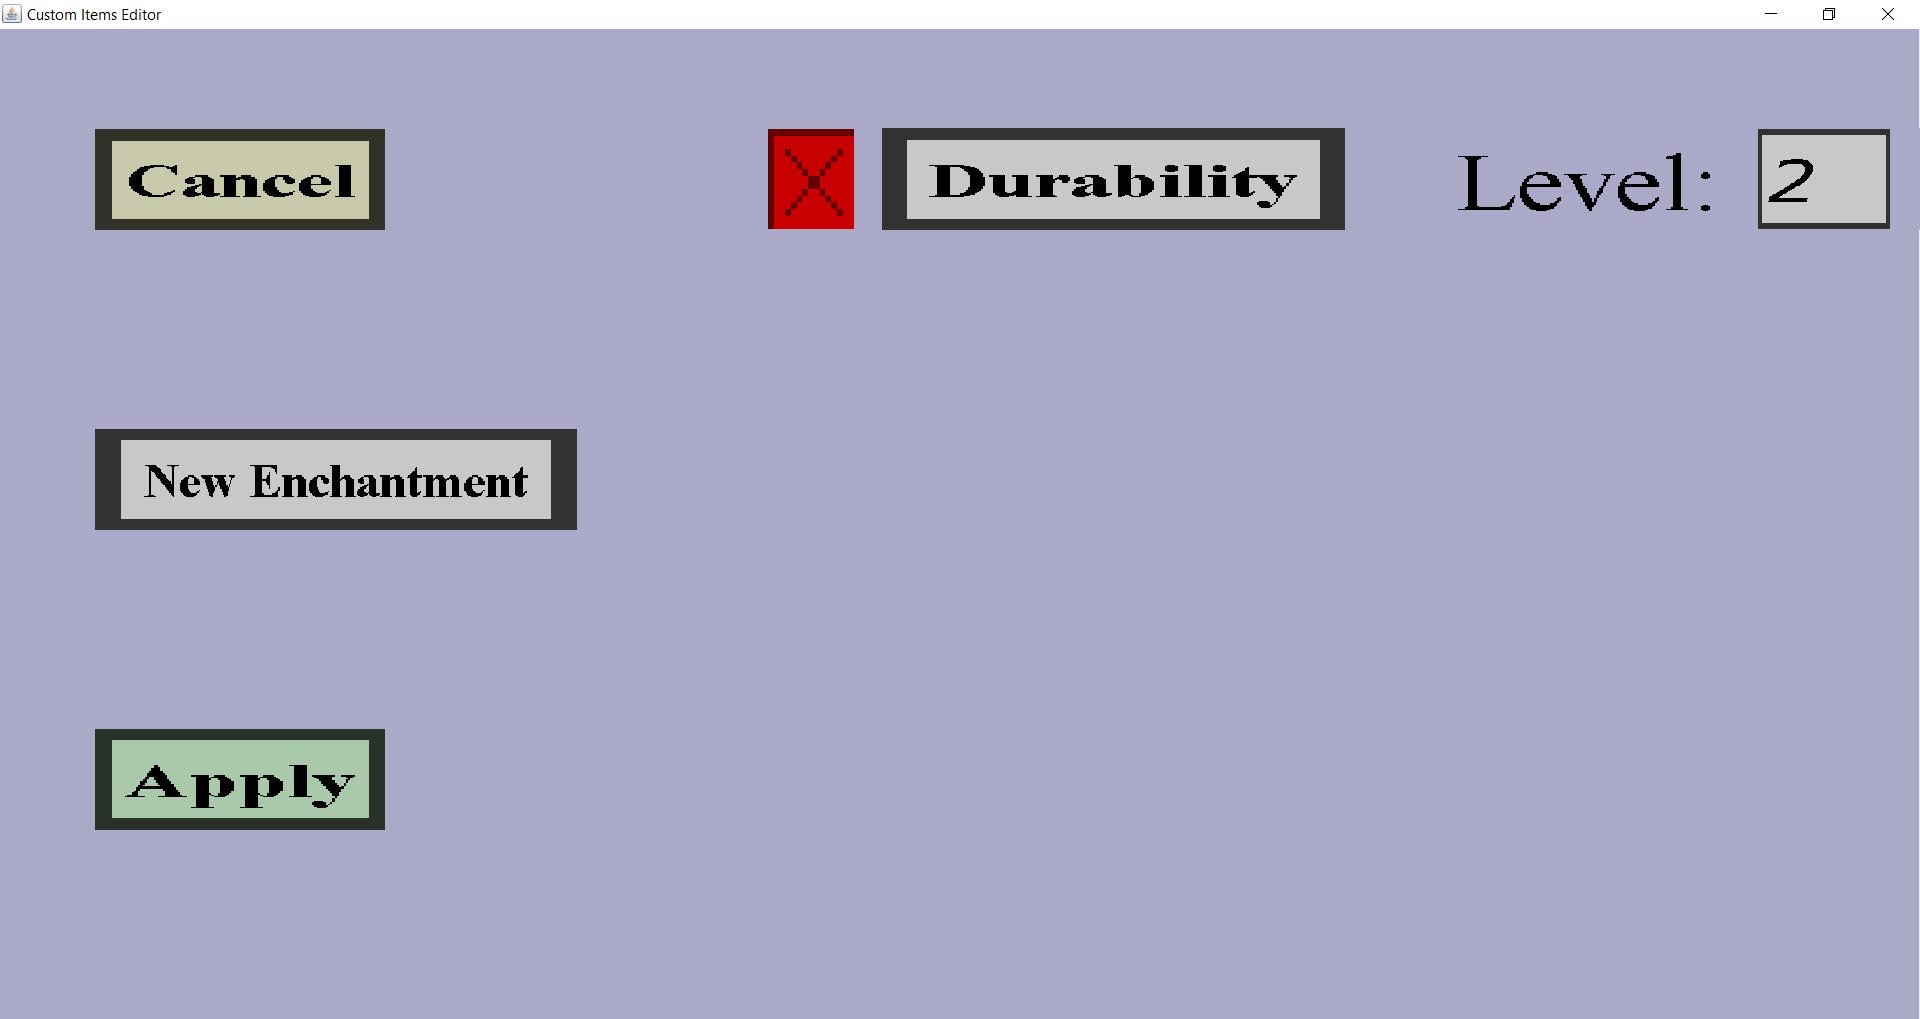
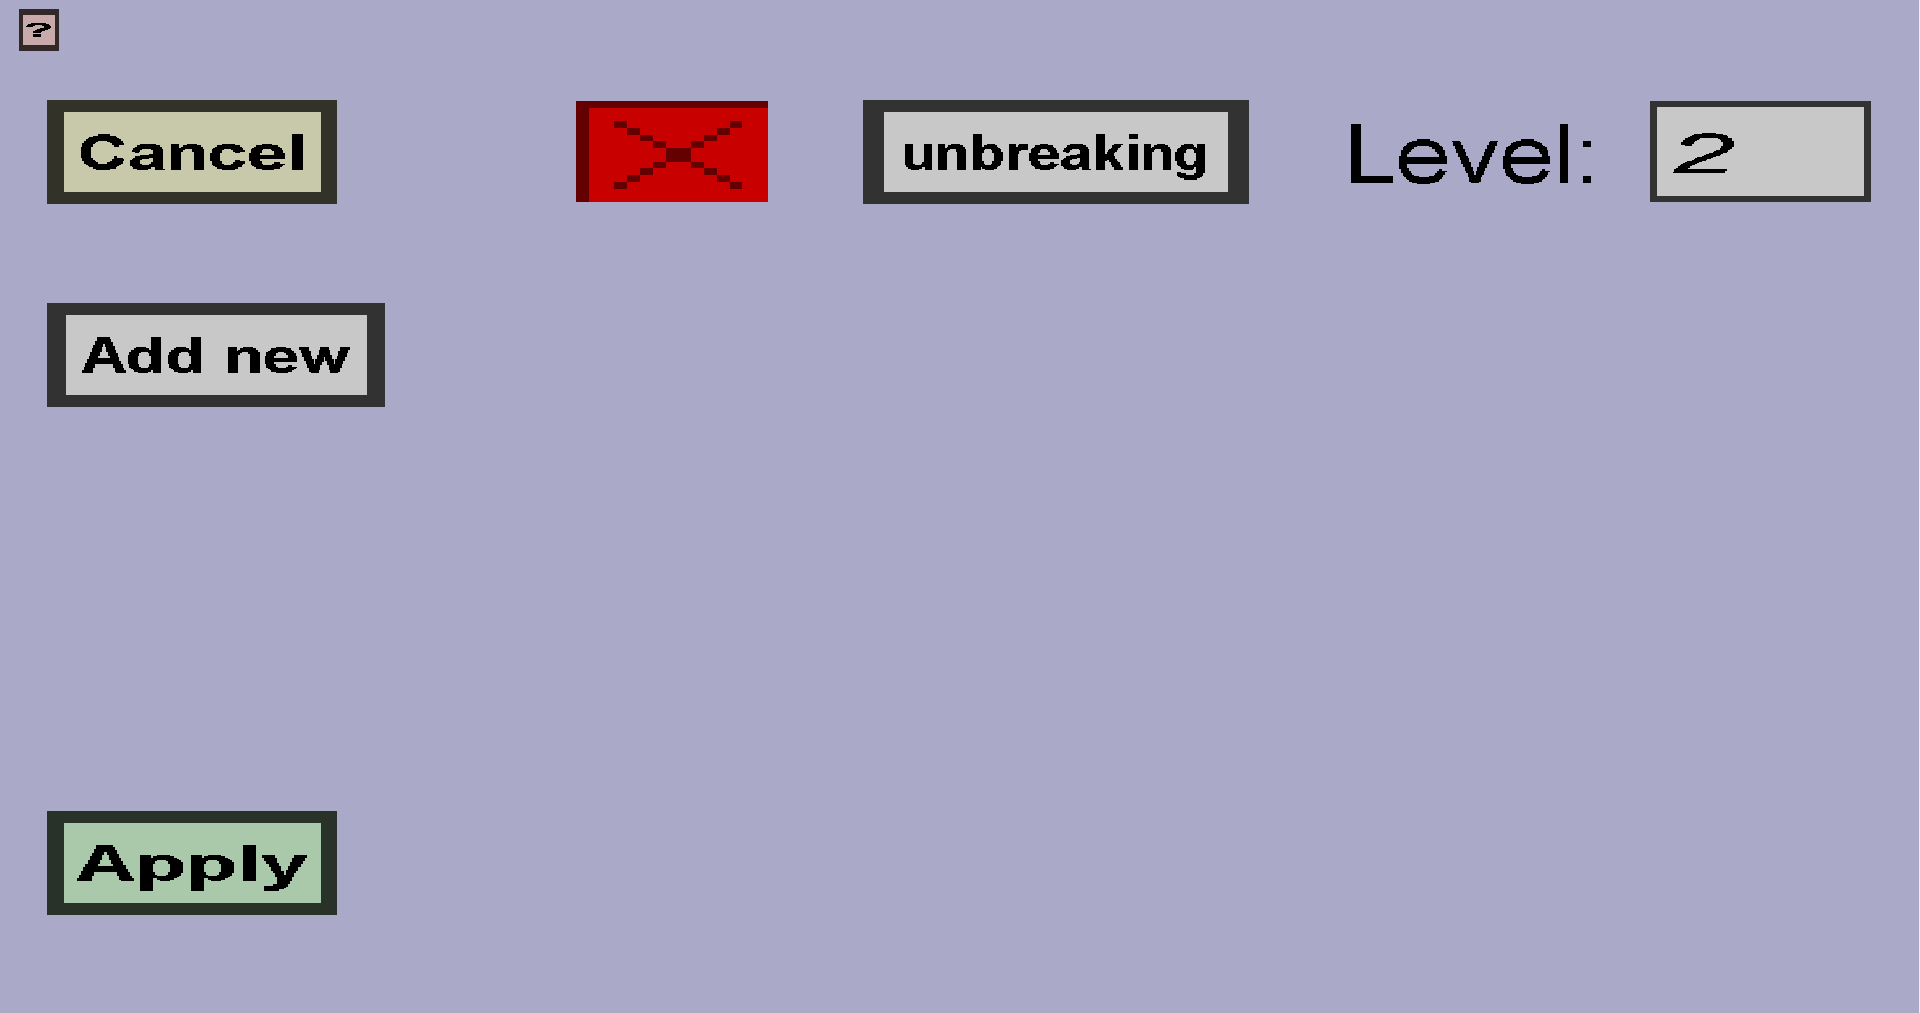
Document the new improved Crazy Enchantments integration

diff --git a/custom items/editor documentation/edit menu/items/edit/enchantments.html b/custom items/editor documentation/edit menu/items/edit/enchantments.html
@@ -7,7 +7,7 @@
     <body>
         <p>
             The default enchantments edit menu can be used to configure the default enchantments of a custom item.
-            If the item has a single default unbreaking/durability enchantment of level 2, it should look like this:
+            If the item has a single default unbreaking enchantment of level 2, it should look like this:
         </p>
         <img src="enchantments.png" width="50%" />
         <p>
@@ -22,7 +22,7 @@
                     changes you made in this menu.
                 </li>
                 <li>
-                    The 'New Enchantment' button will add a new enchantment row (like the Durability 2 row).
+                    The 'New Enchantment' button will add a new enchantment row (like the unbreaking 2 row).
                 </li>
             </ul>
         </p>
@@ -37,15 +37,11 @@
                     original enchantment or click on another button to change the enchantment of the row to the 
                     enchantment on the button. Note:
                     <ul>
+                        <li>You need to scroll with your mouse wheel or arrow keys in order to see some enchantments.</li>
                         <li>
-                            The enchantment names are probably not the ones you are used to
-                            because Bukkits enchantment names are used rather than minecrafts.
-                            (Bukkit has its own enchantment names for some reason, which is easiest for plug-ins
-                            to interface with.)
-                        </li>
-                        <li>
-                            You need to scroll with your mouse wheel or arrow keys
-                            in order to see some enchantments.
+                            Some enchantments have a "[CRAZY]" suffix behind their name. These enchantments are only available if the 
+                            <a href="https://www.spigotmc.org/resources/crazy-enchantments.16470/">Crazy Enchantments</a> plug-in
+                            is installed.
                         </li>
                     </ul>
                 </li>

diff --git a/custom items/compatibility/positive.html b/custom items/compatibility/positive.html
@@ -50,8 +50,11 @@ MobName:
         </textarea>
         <h3><a href="https://www.spigotmc.org/resources/crazy-enchantments.16470/">Crazy Enchantments</a></h3>
         <p>
-            This plug-in has nice support for the Hellforge enchantment on custom items.
-            If a custom item would be repaired with the HellForged enchantment, its 
+            The enchantments from the Crazy Enchantments plug-in can be used as the
+            <a href="../editor documentation/edit menu/items/edit/enchantments.html">default enchantments</a>
+            of custom items. The crazy enchantments will be listed after the vanilla enchantments and have a
+            "[CRAZY]" suffix after their name. Furthermore, this plug-in has nice support for the Hellforge 
+            enchantment on custom items. If a custom item would be repaired with the HellForged enchantment, its 
             custom durability will be repaired instead of the vanilla durability.
             If crazy enchantments is not installed, nothing will happen, except a 
             message in the console stating that crazy enchantments doesn't seem to be installed.
